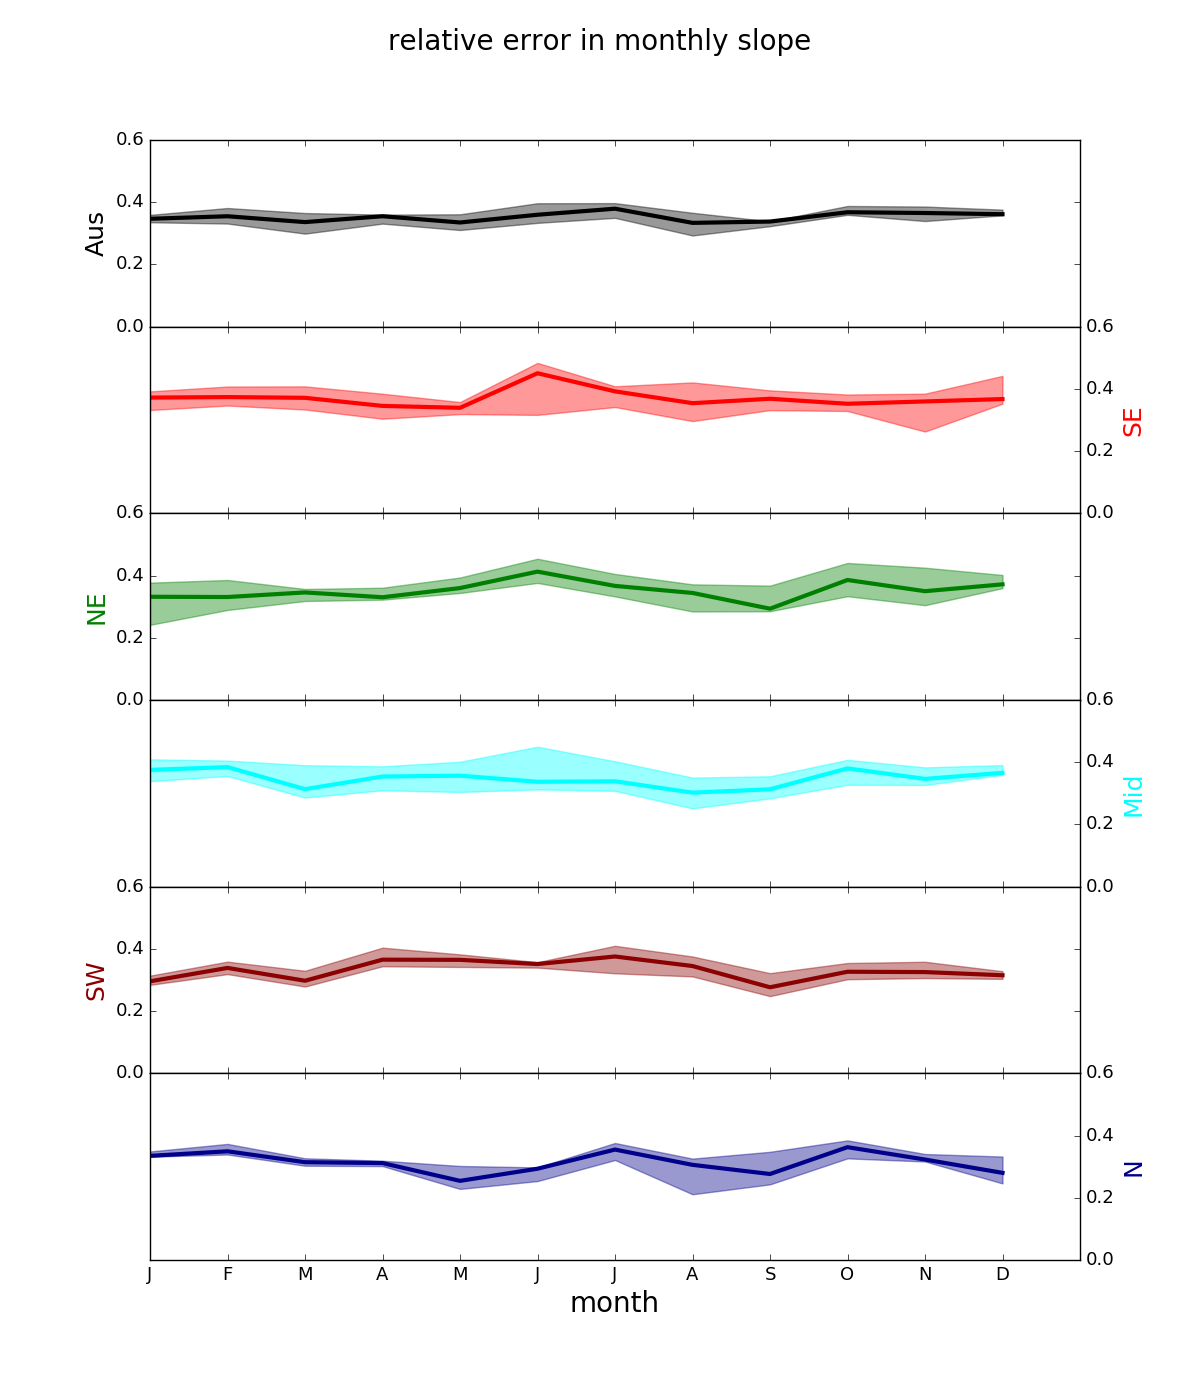
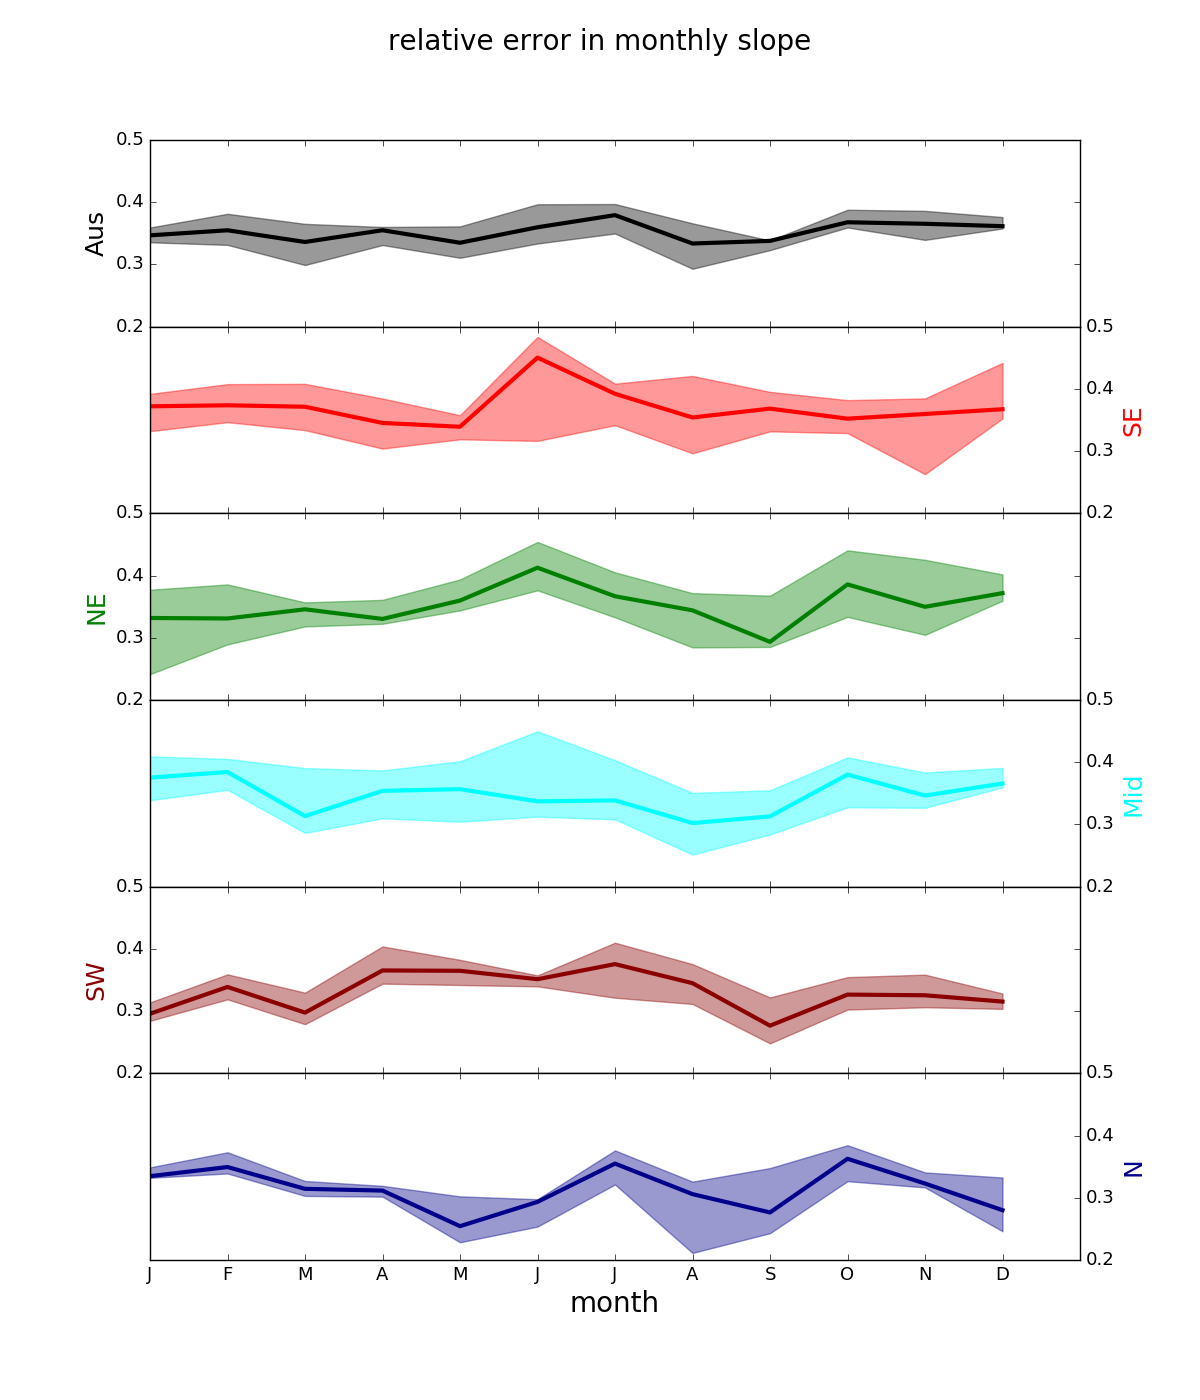
updated error plots

diff --git a/classes/E_new.py b/classes/E_new.py
@@ -36,6 +36,7 @@ __DEBUG__=False
 __E_new_keys__=[            # #  # {time, lats, lons}
                 'BG_OMI',       #  {31, 152, 152}
                 'BG_PP',        #  {31, 152, 152}
+                'BG_PP_rerr',  # monthly low res rerr over Aus
                 'BG_VCC',       #  {31, 152, 152}
                 'E_MEGAN',      #  {31, 18, 19}
                 'E_GC',     #  {31, 152, 152}
@@ -186,7 +187,7 @@ class E_new:
                     print("Reading %s"%key )
             # Read in monthly data
             #
-            elif (key in ['ModelSlope','slope_rerr_lr','E_PPm_err_lr']) and key in dkeys:
+            elif (key in ['BG_PP_rerr','ModelSlope','slope_rerr_lr','E_PPm_err_lr']) and key in dkeys:
 
                 # np array of the data [lats, lons]
                 data0=np.array(E_new_list[0][key])

diff --git a/localtests.py b/localtests.py
@@ -65,6 +65,15 @@ start1=timeit.default_timer()
 
 import chapter_3_isop
 #test_filters.summary_pixels_filtered()
+d0,d1=datetime(2005,1,1),datetime(2005,12,31)
+enew=E_new(d0,d1)
+months=util.list_months(d0,d1)
+pixm=util.monthly_average(enew.dates, enew.pixels_PP_lr, keep_spatial=True)['sum']
+perpixBGrerr=enew.BG_PP_rerr * np.sqrt(pixm)
+chapter_3_isop.PlotMultiyear(perpixBGrerr, months, enew.lats_lr, enew.lons_lr)
+plt.savefig('test_bgrerr.png')
+print('saved test_bgrerr.png')
+plt.close()
 
 
 
